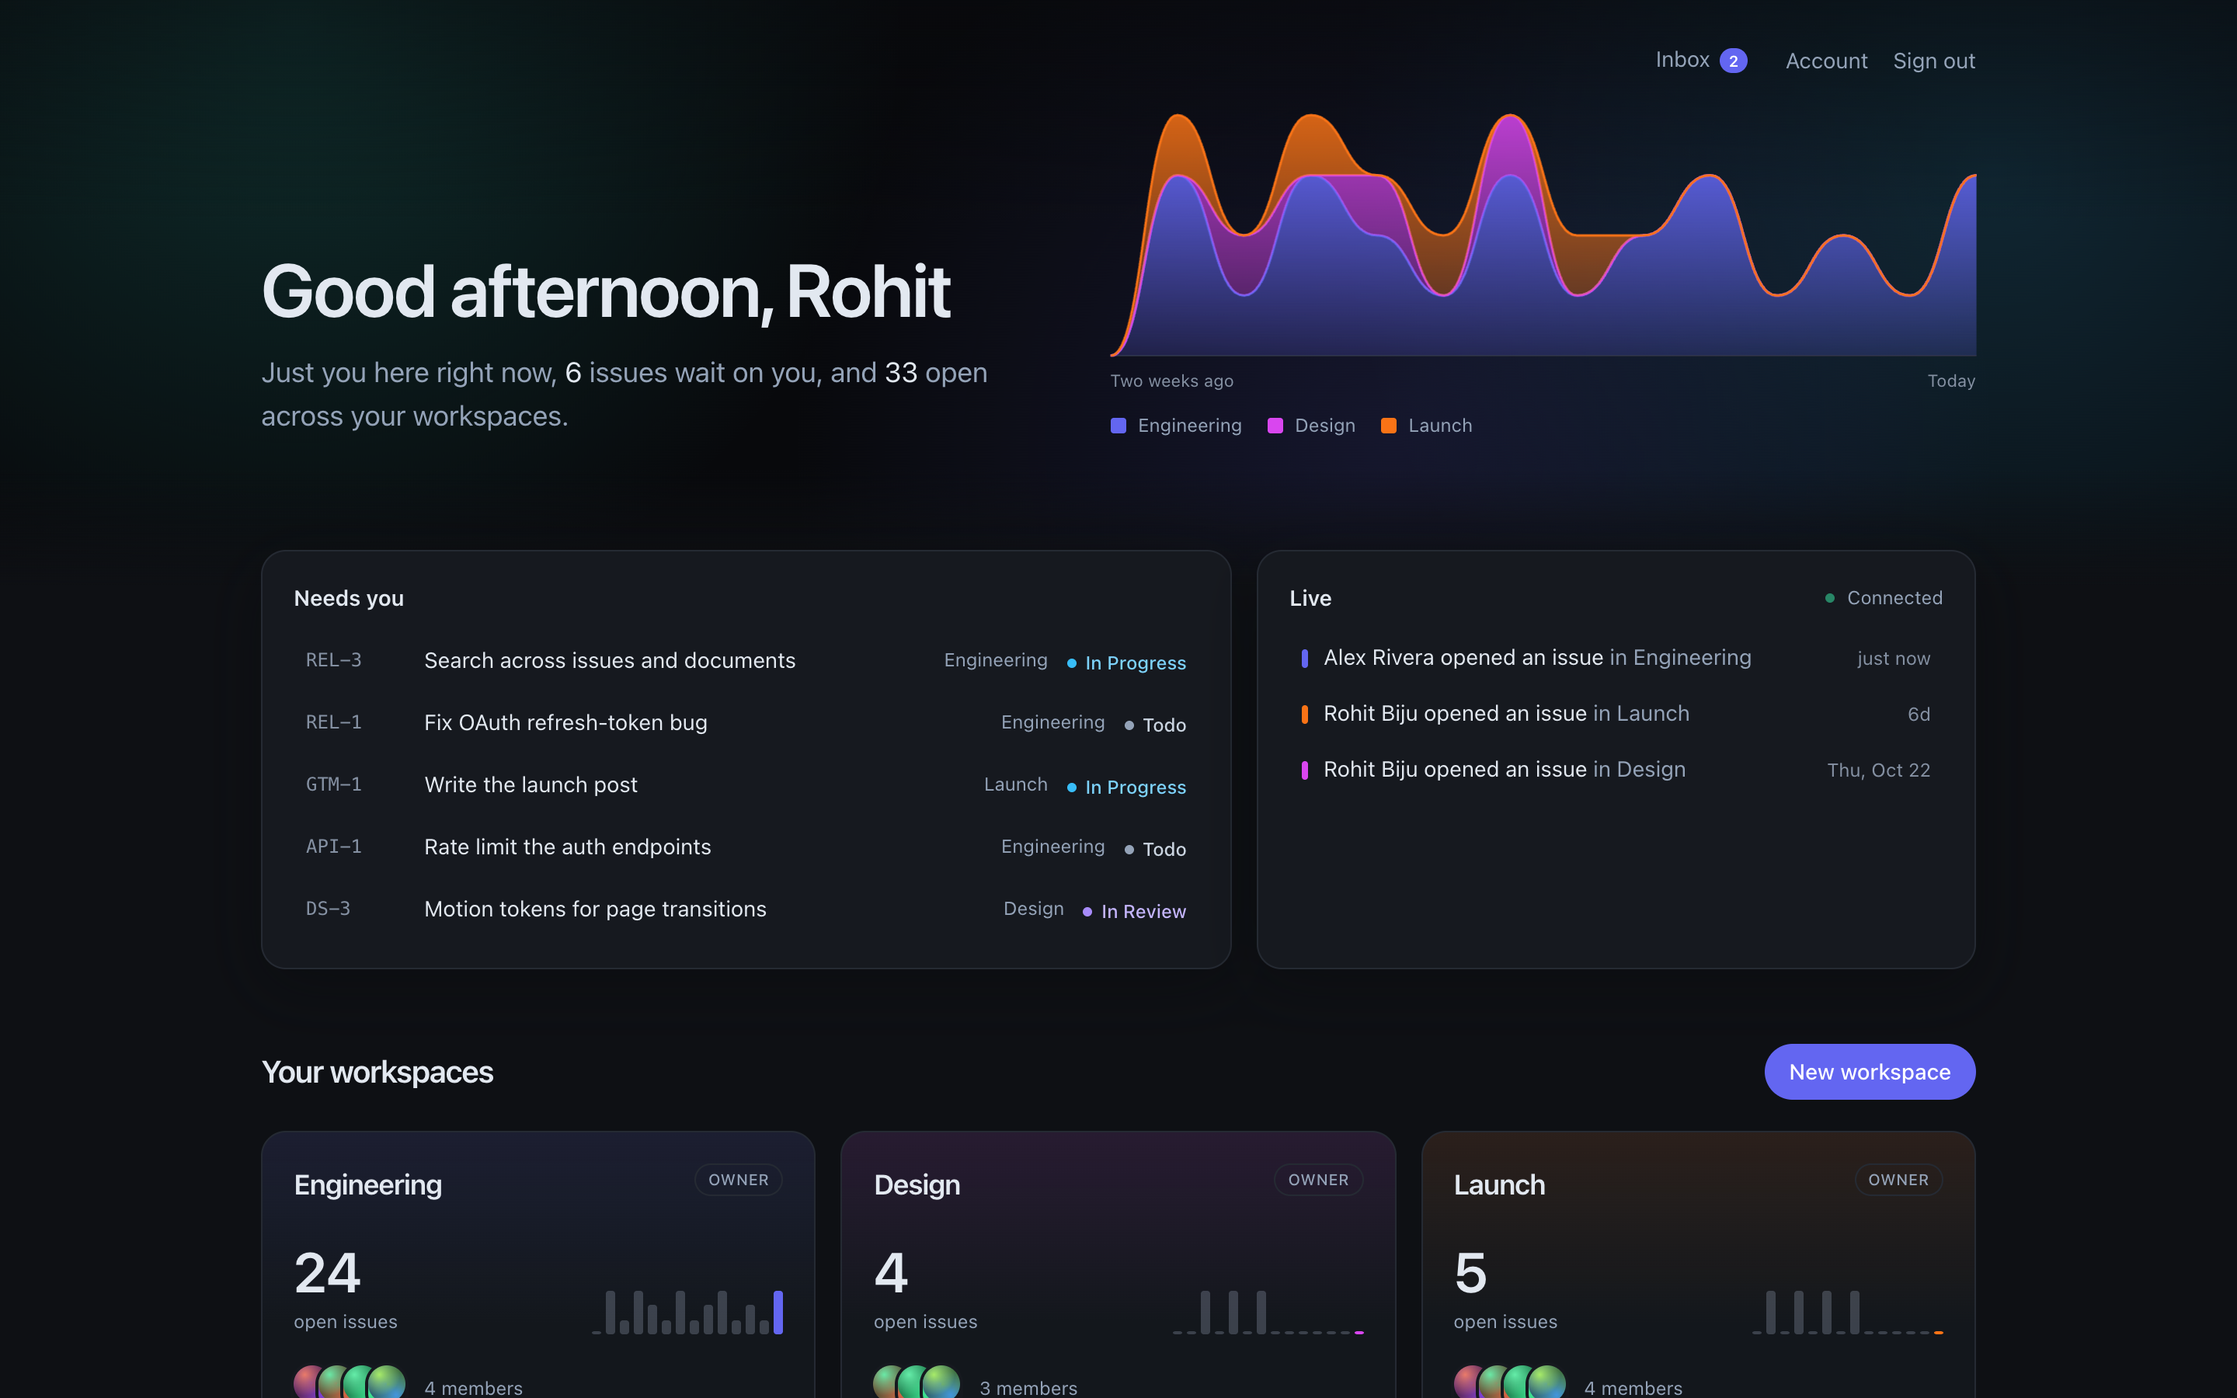
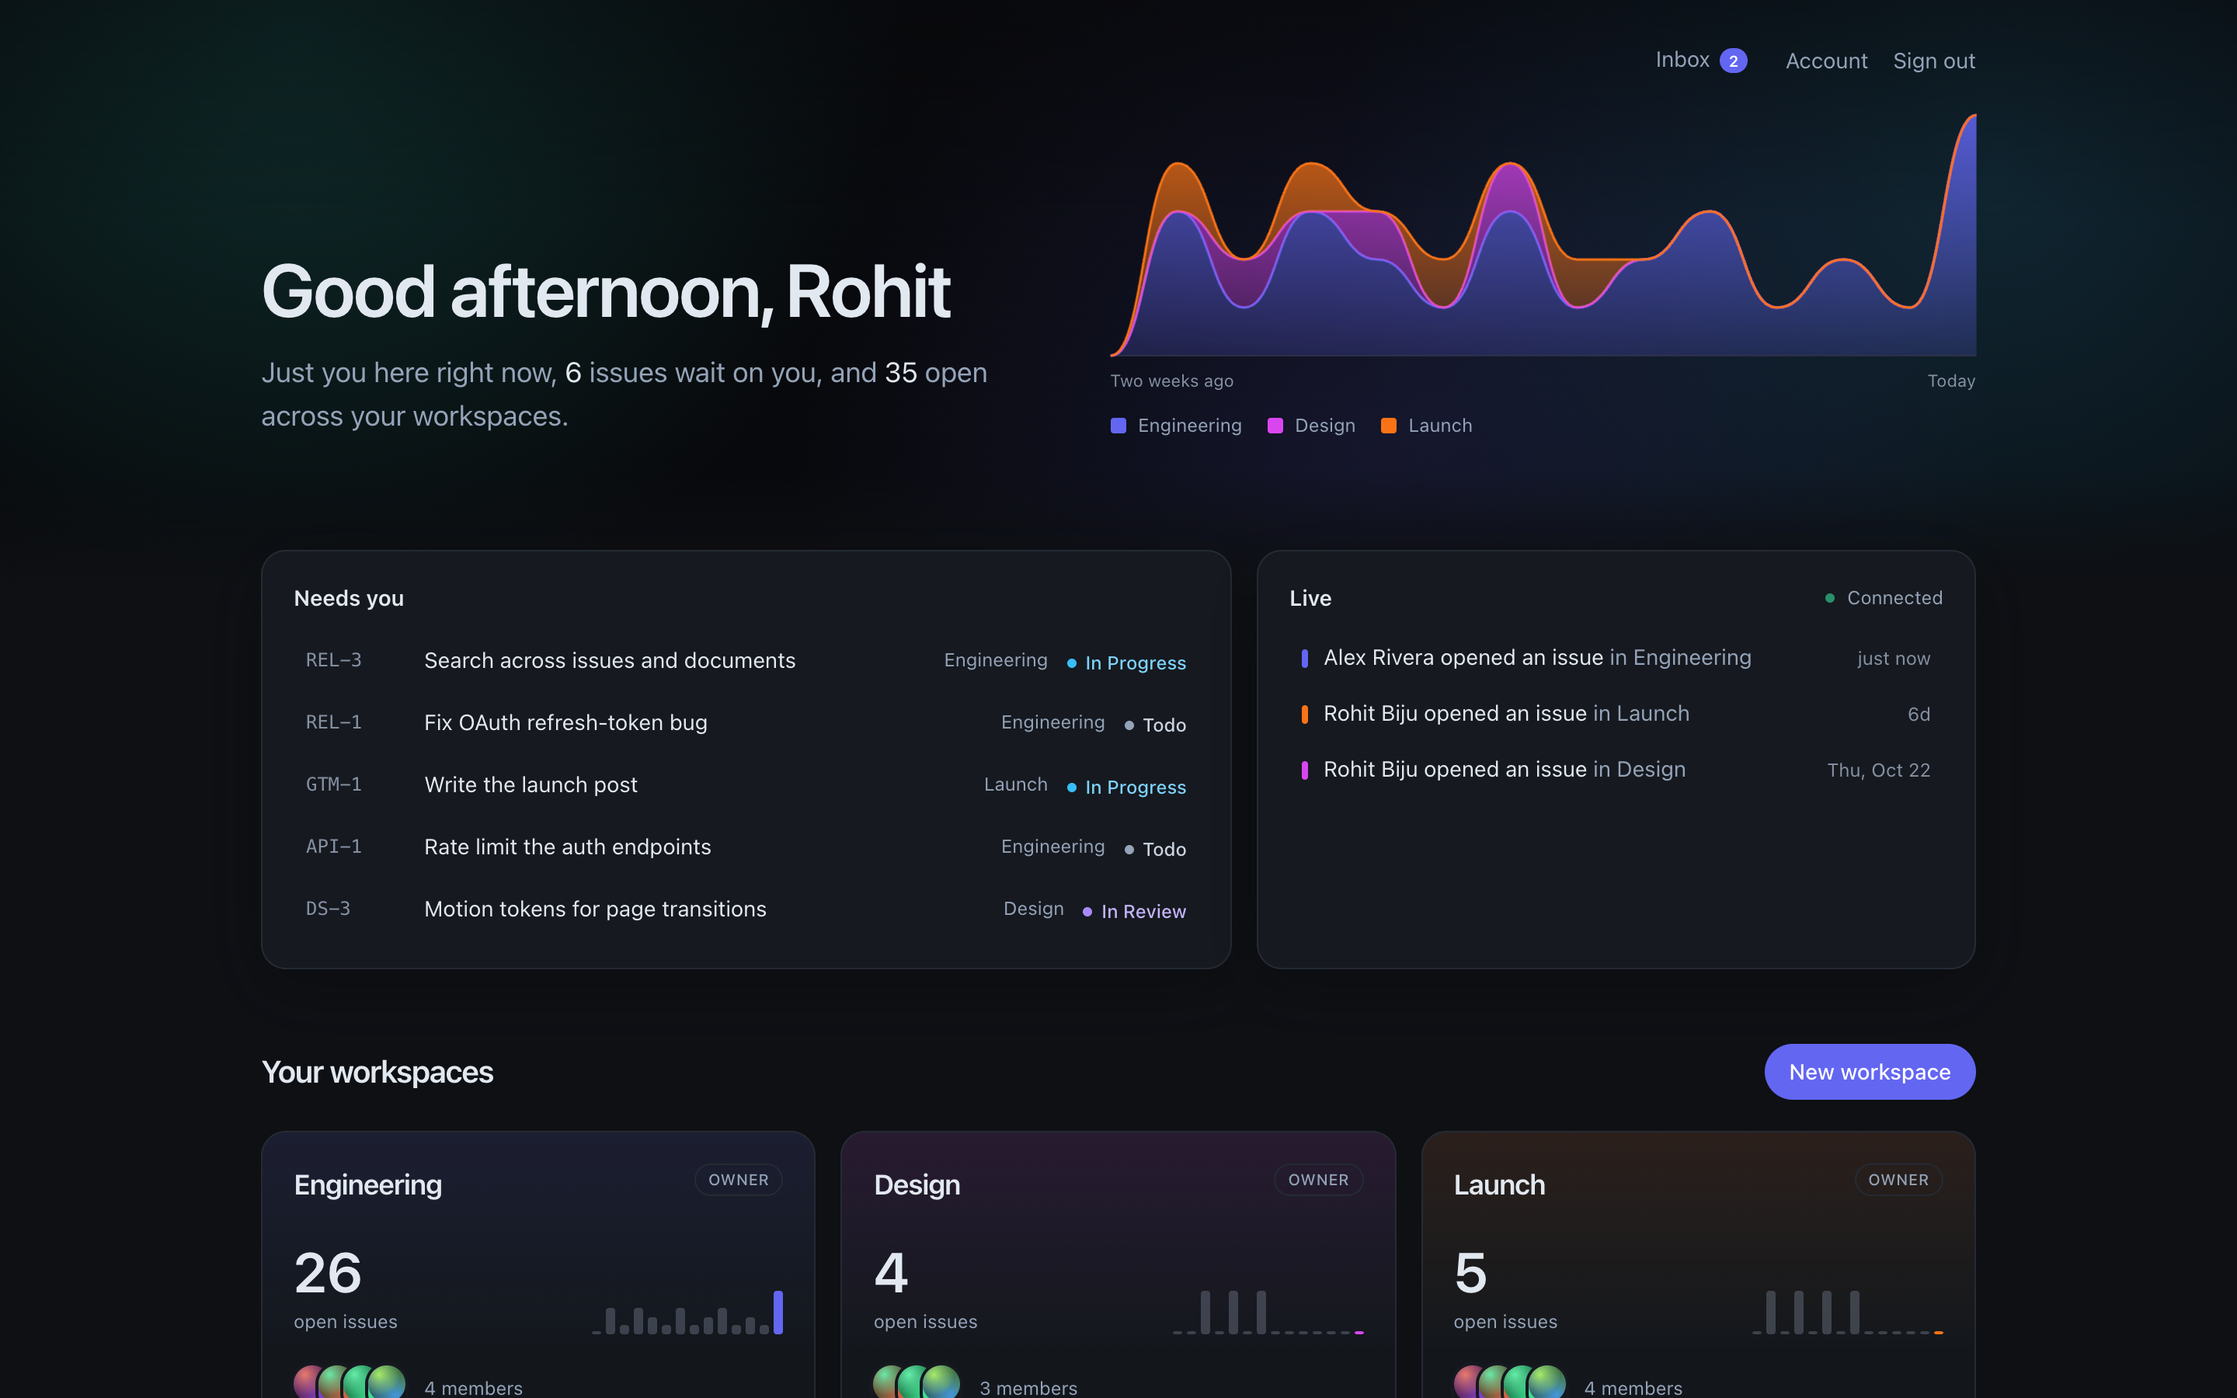
feat: every workspace has a storage limit (stage 1, item 11)
Each workspace may store 1 GB of images. The upload route checks the
workspace's total plus the declared length before reading the body and
refuses with 413 storage_quota_exceeded, saying an owner can make room;
non-members still get the usual 404 and learn nothing. The home overview
reports usage to owners only, shown as a thin meter on the tile in the
workspace's colour.

Checked: tests prove an upload passes with room, is refused once the
workspace is within bytes of the limit, and that usage shows to owners
and not to members. Full suite 880 pass, 1 skip, 0 fail; lint and
typecheck clean; smoke:stack passed on a rebuilt stack; the meters seen
on the demo owner's home in headless Chrome. Home stills refreshed.

diff --git a/tests/storage-quota.test.ts b/tests/storage-quota.test.ts
@@ -1,0 +1,91 @@
+import { afterAll, beforeEach, describe, expect, test } from 'bun:test';
+import { attachments, WORKSPACE_STORAGE_QUOTA_BYTES } from '@robis/database';
+import sharp from 'sharp';
+import {
+  addMember,
+  closeHarness,
+  createActor,
+  createProject,
+  createWorkspace,
+  getHarness,
+  request,
+  resetDatabase,
+} from './harness.ts';
+
+/**
+ * A storage quota per workspace (stage 1, item 11): checked before an
+ * upload is read, so a full workspace refuses a file without processing
+ * it; and how much is used, shown to its owners only.
+ */
+
+beforeEach(resetDatabase);
+afterAll(closeHarness);
+
+async function workspaceWithIssue() {
+  const owner = await createActor('Owner');
+  const workspace = await createWorkspace(owner);
+  const project = await createProject(owner, workspace.id);
+  const issue = await request(`/workspaces/${workspace.id}/projects/${project.id}/issues`, {
+    method: 'POST',
+    actor: owner,
+    payload: { title: 'Pictures' },
+  });
+  return { owner, workspace, issueId: issue.json().issue.id as string };
+}
+
+async function upload(cookie: string, workspaceId: string, issueId: string) {
+  const { app } = await getHarness();
+  const body = await sharp({ create: { width: 8, height: 8, channels: 3, background: '#000' } })
+    .png()
+    .toBuffer();
+  return app.inject({
+    method: 'POST',
+    url: `/workspaces/${workspaceId}/issues/${issueId}/attachments`,
+    headers: { cookie, 'content-type': 'image/png' },
+    payload: body,
+  });
+}
+
+/** Fill the workspace to within a few bytes of its quota. */
+async function fill(workspaceId: string, issueId: string) {
+  const { db } = await getHarness();
+  await db.insert(attachments).values({
+    workspaceId,
+    issueId,
+    storageKey: `test/${workspaceId}/big.png`,
+    contentType: 'image/png',
+    bytes: WORKSPACE_STORAGE_QUOTA_BYTES - 10,
+    width: 1,
+    height: 1,
+  });
+}
+
+describe('the storage quota', () => {
+  test('lets an upload in while there is room', async () => {
+    const { owner, workspace, issueId } = await workspaceWithIssue();
+    expect((await upload(owner.cookie, workspace.id, issueId)).statusCode).toBe(201);
+  });
+
+  test('refuses an upload that would pass it, before reading it', async () => {
+    const { owner, workspace, issueId } = await workspaceWithIssue();
+    await fill(workspace.id, issueId);
+    const response = await upload(owner.cookie, workspace.id, issueId);
+    expect(response.statusCode).toBe(413);
+    expect(response.json().error).toBe('storage_quota_exceeded');
+  });
+
+  test('is shown to owners, and to nobody else', async () => {
+    const { owner, workspace, issueId } = await workspaceWithIssue();
+    const member = await createActor('Member');
+    await addMember(owner, workspace.id, member, 'MEMBER');
+    await fill(workspace.id, issueId);
+
+    const mine = (await request('/workspaces/overview', { actor: owner })).json();
+    expect(mine.workspaces[0].storage).toEqual({
+      used: WORKSPACE_STORAGE_QUOTA_BYTES - 10,
+      quota: WORKSPACE_STORAGE_QUOTA_BYTES,
+    });
+    const theirs = (await request('/workspaces/overview', { actor: member })).json();
+    expect(theirs.workspaces[0].storage).toBeNull();
+  });
+});

diff --git a/backend/api/src/routes/overview.ts b/backend/api/src/routes/overview.ts
@@ -1,4 +1,12 @@
-import { type Database, issues, projects, workspaceMembers, workspaces } from '@robis/database';
+import {
+  attachments,
+  type Database,
+  issues,
+  projects,
+  WORKSPACE_STORAGE_QUOTA_BYTES,
+  workspaceMembers,
+  workspaces,
+} from '@robis/database';
 import { and, desc, eq, inArray, notInArray, sql } from 'drizzle-orm';
 import type { FastifyInstance } from 'fastify';
 import { avatarOf } from '../media/avatars.ts';
@@ -62,7 +70,7 @@ export async function overviewRoutes(app: FastifyInstance, opts: { db: Database 
       const user = currentUser(request);
 
       const mine = await db
-        .select({ id: workspaces.id, name: workspaces.name })
+        .select({ id: workspaces.id, name: workspaces.name, role: workspaceMembers.role })
         .from(workspaceMembers)
         .innerJoin(workspaces, eq(workspaces.id, workspaceMembers.workspaceId))
         .where(eq(workspaceMembers.userId, user.id))
@@ -165,6 +173,27 @@ export async function overviewRoutes(app: FastifyInstance, opts: { db: Database 
       ]);
 
       const openBy = new Map(open.map((row) => [row.workspaceId, row.n]));
+      // How much each owned workspace stores, for its owners only (stage 1,
+      // item 11); nobody else is shown it.
+      const owned = mine.filter((w) => w.role === 'OWNER').map((w) => w.id);
+      const stored =
+        owned.length === 0
+          ? []
+          : await db
+              .select({
+                workspaceId: attachments.workspaceId,
+                used: sql<number>`coalesce(sum(${attachments.bytes}), 0)::bigint`,
+              })
+              .from(attachments)
+              .where(inArray(attachments.workspaceId, owned))
+              .groupBy(attachments.workspaceId);
+      const usedBy = new Map(stored.map((row) => [row.workspaceId, Number(row.used)]));
+      const storageBy = new Map(
+        owned.map((id) => [
+          id,
+          { used: usedBy.get(id) ?? 0, quota: WORKSPACE_STORAGE_QUOTA_BYTES },
+        ]),
+      );
       const latestBy = new Map([...latest].map((row) => [row.workspaceId, row]));
 
       return {
@@ -178,6 +207,7 @@ export async function overviewRoutes(app: FastifyInstance, opts: { db: Database 
           return {
             id,
             openIssues: openBy.get(id) ?? 0,
+            storage: storageBy.get(id) ?? null,
             memberCount: shown[0]?.total ?? 0,
             members: shown.map((m) => ({
               id: m.userId,

diff --git a/frontend/features/home/workspace-tile.tsx b/frontend/features/home/workspace-tile.tsx
@@ -133,6 +133,7 @@ export function WorkspaceTile({
 
       <TileMembers overview={overview} here={here} />
       <TileLatest overview={overview} />
+      {overview?.storage && <TileStorage storage={overview.storage} />}
 
       <div className="relative z-10 mt-3 flex justify-end">
         <DeleteButton
@@ -196,5 +197,43 @@ function TileLatest({ overview }: { overview: WorkspaceOverview | undefined }) {
         'Nothing here yet. Open it to start.'
       ) : null}
     </p>
+  );
+}
+
+const sizeFormat = new Intl.NumberFormat(undefined, { maximumFractionDigits: 1 });
+
+/** Bytes as the unit a person would say: KB, MB or GB. */
+function size(bytes: number): string {
+  if (bytes >= 1024 ** 3) return `${sizeFormat.format(bytes / 1024 ** 3)} GB`;
+  if (bytes >= 1024 ** 2) return `${sizeFormat.format(bytes / 1024 ** 2)} MB`;
+  return `${sizeFormat.format(Math.max(bytes, 0) / 1024)} KB`;
+}
+
+/**
+ * How much of its storage the workspace uses: owners only, since they are
+ * the ones who can make room. A thin meter in the workspace's own colour,
+ * on a fainter track of the same colour, with the figures beside it.
+ */
+function TileStorage({ storage }: { storage: { used: number; quota: number } }) {
+  const share = Math.min(1, storage.used / storage.quota);
+  return (
+    <div className="relative z-10 mt-4">
+      <div className="flex justify-between text-[11px] text-faint">
+        <span>Storage</span>
+        <span>
+          {size(storage.used)} of {size(storage.quota)}
+        </span>
+      </div>
+      {/* The figures above say it; the bar only shows it. */}
+      <div
+        aria-hidden="true"
+        className="mt-1 h-1 overflow-hidden rounded-full bg-[rgb(var(--tile-accent)/0.18)]"
+      >
+        <div
+          className="h-full rounded-full bg-[rgb(var(--tile-accent))]"
+          style={{ width: `${Math.max(share * 100, storage.used > 0 ? 2 : 0)}%` }}
+        />
+      </div>
+    </div>
   );
 }

diff --git a/frontend/features/landing/changelog.ts b/frontend/features/landing/changelog.ts
@@ -41,6 +41,15 @@ export const CHANGELOG: readonly Entry[] = [
   {
     date: '2026-10-29',
     area: 'Security',
+    title: 'Every workspace has a storage limit',
+    summary:
+      'Each workspace can now store up to 1 GB of images. An upload that would go past it is refused before any of it is read, with a message saying an owner can make room by deleting old images, so one workspace cannot fill the disk for everyone. Owners see how much is used on the workspace’s tile on the home, as a thin bar in the workspace’s colour with the figures beside it; other members are not shown it.',
+    checked:
+      'Tests prove an upload goes through while there is room, is refused with 413 and storage_quota_exceeded once the workspace is within a few bytes of its limit, and that someone outside the workspace still gets the usual not found rather than learning its usage; and that the home overview reports usage to owners and nothing to a member. The full suite passes.',
+  },
+  {
+    date: '2026-10-29',
+    area: 'Security',
     title: 'Delete your own account',
     summary:
       'Account settings now let you delete your account yourself. You confirm with your password, and for each workspace you own you choose: hand it to one of its members, who becomes its owner, or delete it with everything in it. Then every session ends, your name, email, username, picture and password are removed, and your picture’s file is deleted; what you wrote in workspaces that stay is kept under “Deleted user”. Your details in the audit trail are erased by the erasure tool’s own account, which the deletion asks for, since the app itself is not allowed to erase. The erasure design is a draft for legal review.',

diff --git a/backend/api/src/routes/attachments.ts b/backend/api/src/routes/attachments.ts
@@ -4,10 +4,13 @@ import {
   attachments,
   comments,
   type Database,
+  findMembership,
   issues,
   publishEvent,
   queueAttachmentPurge,
   recordAudit,
+  WORKSPACE_STORAGE_QUOTA_BYTES,
+  workspaceStorageUsed,
 } from '@robis/database';
 import { can, isUuid } from '@robis/shared';
 import { and, asc, eq } from 'drizzle-orm';
@@ -88,6 +91,22 @@ export async function attachmentRoutes(
     const user = token ? await resolveSession(db, token) : null;
     if (!user) throw ApiError.unauthorized();
     request.user = user;
+
+    // The quota (stage 1, item 11), before the body is read, and only for
+    // a member: anyone else falls through to the membership check's 404,
+    // so a full workspace never confirms it exists.
+    const { workspaceId } = request.params as { workspaceId?: string };
+    if (!workspaceId || !isUuid(workspaceId)) return;
+    if (!(await findMembership(db, workspaceId, user.id))) return;
+    const incoming = Number(request.headers['content-length'] ?? 0);
+    const used = await workspaceStorageUsed(db, workspaceId);
+    if (used + incoming > WORKSPACE_STORAGE_QUOTA_BYTES) {
+      throw new ApiError(
+        413,
+        'storage_quota_exceeded',
+        'This workspace is out of storage. An owner can make room by deleting old images.',
+      );
+    }
   }
 
   /** Tell open issue pages to re-read their images. Never fails the request. */

diff --git a/backend/database/src/files.ts b/backend/database/src/files.ts
@@ -1,4 +1,4 @@
-import type { SQL } from 'drizzle-orm';
+import { eq, type SQL, sql } from 'drizzle-orm';
 import type { Executor } from './index.ts';
 import { enqueue } from './queue.ts';
 import { attachments } from './schema.ts';
@@ -34,4 +34,19 @@ export async function queueAttachmentPurge(tx: Executor, where: SQL): Promise<nu
     await enqueue(tx, STORAGE_PURGE_JOB, payload);
   }
   return keys.length;
+}
+
+/**
+ * How much a workspace may store (stage 1, item 11), in bytes. Checked
+ * before an upload is read; shown to the workspace's owners.
+ */
+export const WORKSPACE_STORAGE_QUOTA_BYTES = 1024 ** 3;
+
+/** Bytes a workspace's files take, as stored. */
+export async function workspaceStorageUsed(db: Executor, workspaceId: string): Promise<number> {
+  const [row] = await db
+    .select({ used: sql<number>`coalesce(sum(${attachments.bytes}), 0)::bigint` })
+    .from(attachments)
+    .where(eq(attachments.workspaceId, workspaceId));
+  return Number(row?.used ?? 0);
 }

diff --git a/frontend/features/home/use-overview.ts b/frontend/features/home/use-overview.ts
@@ -8,6 +8,8 @@ import { api } from '../../lib/api.ts';
 export type WorkspaceOverview = {
   id: string;
   openIssues: number;
+  /** Bytes stored and allowed, for owners only (stage 1, item 11). */
+  storage: { used: number; quota: number } | null;
   memberCount: number;
   members: { id: string; name: string; avatar: Avatar }[];
   /** Fourteen days, oldest first; the last is today. */

diff --git a/README.md b/README.md
@@ -146,13 +146,13 @@ with Postgres on the same machine. Method and percentiles in
 
 ## Latest
 
+- **Every workspace has a storage limit.** 1 GB of images each, checked
+  before an upload is read; owners see the usage on the home.
 - **Delete your own account.** With your password and a choice for
   each workspace you own; your details go, your work stays under
   "Deleted user".
 - **Erasure has its own key, and leaves a receipt.** Only the erasure
   tool's own database account can blank the audit trail's personal fields.
-- **A database account per service.** The gateway, the worker and the ML
-  service each connect with only the grants their code needs.
 
 Everything else, newest first, with how each was checked:
 [What's new](docs/WHATS_NEW.md).

diff --git a/docs/WHATS_NEW.md b/docs/WHATS_NEW.md
@@ -4,6 +4,9 @@ Newest first. The same list is the site's What's new page, where each entry
 opens to show how it was checked and, for features, where to find it and
 what each layer does. Back to the [README](../README.md).
 
+- **Every workspace has a storage limit** (2026-10-29). Each workspace can
+  store up to 1 GB of images; an upload past it is refused before it is
+  read, and owners see the usage on the home.
 - **Delete your own account** (2026-10-29). Delete your account from Account
   settings, with your password and a choice for each workspace you own;
   your details are removed and your work stays under "Deleted user".

diff --git a/docs/ROADMAP.md b/docs/ROADMAP.md
@@ -2,7 +2,7 @@
 
 Where Robis is, what is left, and what is deliberately not being built.
 
-Status (2026-10-29): **877 TypeScript tests, 96 Python tests, lint and
+Status (2026-10-29): **881 TypeScript tests, 96 Python tests, lint and
 typecheck clean, production build passing.** This is the one place test counts are kept; a
 test (`tests/doc-links.test.ts`) refuses a count anywhere else, so the other
 documents point here instead of drifting.
